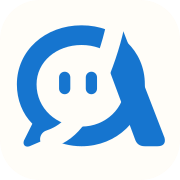
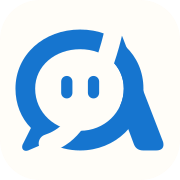
校正拥爱图标：清除A笔画侵入脸部并对齐双眼与视觉重心

diff --git a/index.html b/index.html
@@ -12,7 +12,7 @@
 <meta property="og:description" content="有记忆，有自己的一天，也有一个由你亲手安放的家。自托管 · 开源 · Android。">
 <meta property="og:image" content="https://gi-tuu.github.io/AMBRACE/og-cover.png">
 <meta name="twitter:card" content="summary_large_image">
-<link rel="icon" type="image/svg+xml" href="assets/favicon.svg?v=20261012">
+<link rel="icon" type="image/svg+xml" href="assets/favicon.svg?v=20261012b">
 <link rel="icon" type="image/png" sizes="32x32" href="assets/favicon-32.png">
 <link rel="apple-touch-icon" href="assets/apple-touch-icon.png">
 <style>
@@ -67,7 +67,7 @@ html.no-js .menu-toggle,html.no-js .copy{display:none}html.no-js .tabs{display:n
 <body>
 <a class="skip" href="#main">跳到正文</a>
 <header class="nav"><div class="wrap nav-inner">
-<a class="brand" href="#main" aria-label="拥爱 AMBRACE 首页"><img src="assets/ambrace-mark.svg" alt="" width="42" height="42"><span><strong>拥爱</strong><small>AMBRACE</small></span></a>
+<a class="brand" href="#main" aria-label="拥爱 AMBRACE 首页"><img src="assets/ambrace-mark.svg?v=20261012b" alt="" width="42" height="42"><span><strong>拥爱</strong><small>AMBRACE</small></span></a>
 <button class="menu-toggle" type="button" aria-expanded="false" aria-controls="navigation" aria-label="打开导航">菜单</button>
 <nav class="nav-links" id="navigation" aria-label="主导航"><a href="#experience">陪伴日常</a><a href="#memory">关于记忆</a><a href="#privacy">数据与隐私</a><a href="https://github.com/Gi-Tuu/AMBRACE" target="_blank" rel="noopener noreferrer">GitHub ↗</a><a class="nav-start" href="#start">开始使用</a></nav>
 </div></header>
